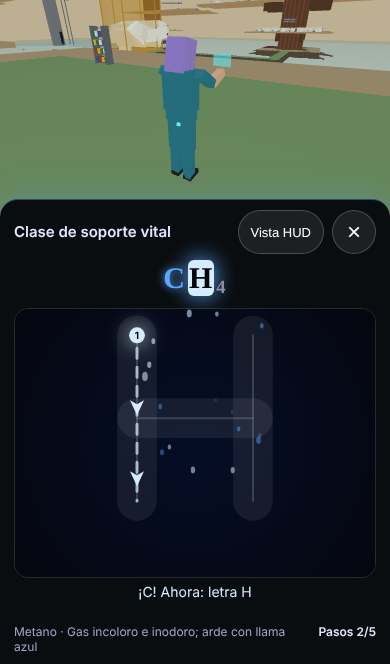
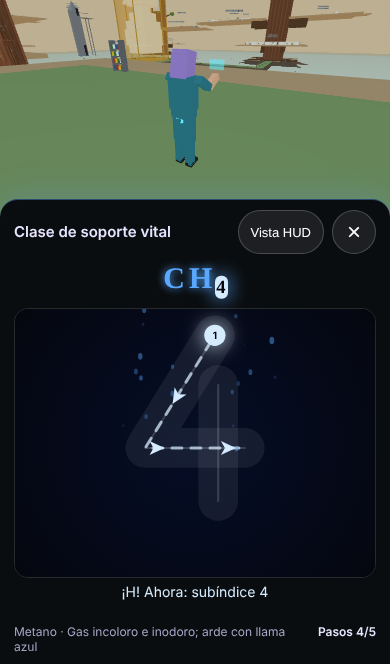
S3: encuadre en panel con aire sobre la cabeza y simulador de Dragon visto de lado
Claude-Session: https://claude.ai/code/session_013f2k3CP9XXanZJK2tg7M68

diff --git a/src/adapters/three/s3-rigs.ts b/src/adapters/three/s3-rigs.ts
@@ -359,10 +359,18 @@ export class S3Rigs {
       at.addScaledVector(up ?? new THREE.Vector3(0, 1, 0), 0.7);
       return true;
     } else if ((this.post === 8 || this.post === 9) && her) {
-      // Over her shoulder to the screens she works at: the simulator's, or the robotics workstation's three.
+      // Over her shoulder to the screens she works at: the simulator's, or the robotics workstation's three. At the
+      // simulator (2026-11-28) from her side, so her head never covers the screen the steps play on.
       const P = this.post === 8 ? this.simShot : this.armShot;
       if (!P) return false;
-      const [backM, upM, sideM, toward] = this.post === 8 ? [0.9, 1.6, 0.45, 0.75] : [0.9, 1.5, 0.35, 0.7];
+      if (this.post === 8) {
+        // From her side, between her and the screen: she and the screen (where each step plays) side by side.
+        const fwd = new THREE.Vector3(P.x - her.x, 0, P.z - her.z).normalize();
+        at.set(her.x, her.y + 1.1, her.z).lerp(P, 0.5);
+        pos.copy(at).add(new THREE.Vector3(-fwd.z, 0.35, fwd.x).multiplyScalar(2.4)).addScaledVector(fwd, -0.4);
+        return true;
+      }
+      const [backM, upM, sideM, toward] = [0.9, 1.5, 0.35, 0.7];
       const back = new THREE.Vector3(her.x - P.x, 0, her.z - P.z).normalize();
       pos.set(her.x, her.y + upM, her.z).addScaledVector(back, backM).add(new THREE.Vector3(-back.z, 0, back.x).multiplyScalar(sideM));
       at.set(her.x, her.y + 1.1, her.z).lerp(P, toward);

diff --git a/src/adapters/three/interior/reto-focus.ts b/src/adapters/three/interior/reto-focus.ts
@@ -15,7 +15,8 @@ import type { StepFrame, StepShow } from "./step-show";
 export interface LensFov {
   /** The scene's own angle, back when the sheet closes (default: the one it had when the lens came on). */
   readonly base?: number;
-  /** Half the vertical angle of the strip above the sheet in portrait (degrees, default 28: her whole at a thing). */
+  /** Half the vertical angle of the strip above the sheet in portrait (degrees, default 33: her whole at a thing with room
+   * over her head; 2026-11-28, with 28 the panel view left her head on the band's top edge at a thing). */
   readonly half?: number;
   /**
    * The free band of the screen in portrait (px from the top: where the sheet leaves room), measured from the sheet
@@ -50,7 +51,7 @@ export function sheetLens(camera: THREE.PerspectiveCamera, on: boolean, fov: Len
     const half = Math.max(20, (b.bottom - b.top) / 2);
     const F = 2 * Math.max(c, h - c);
     camera.aspect = w / F;
-    camera.fov = (2 * Math.atan((Math.tan((fov.half ?? 28) * rad) * (F / 2)) / half)) / rad;
+    camera.fov = (2 * Math.atan((Math.tan((fov.half ?? 33) * rad) * (F / 2)) / half)) / rad;
     camera.setViewOffset(w, F, 0, F / 2 - c, w, h);
   } else if (on) {
     const W = 1.44 * w;

diff --git a/docs/design/retos-trazos.md b/docs/design/retos-trazos.md
@@ -38,6 +38,10 @@ animación, asegúrate que se encuadre la cámara para ver las animaciones».
   servicio, la cámara entra por detrás de su hombro derecho (`focusReto`) y cada paso dibujado se representa con la
   animación de ese paso del santuario 1 (`stepAnimation`, con el reproductor de pasos `StepShow` de las naves). El
   mando de la cámara gira alrededor de ella.
+- **Encuadre en panel**: la franja ve ±33° (antes 28°, `sheetLens` compartido): ella entera con aire sobre la cabeza
+  y el objeto del paso dentro de la franja medida.
+- **Puesto 8 (simulador de Dragon)**: la cámara se pone a su lado, entre ella y la pantalla (`S3Rigs.eye`): se ven ella
+  y la pantalla donde se juega cada paso, sin que su cabeza la tape.
 
 ## Código
 

diff --git a/CHANGELOG.md b/CHANGELOG.md
@@ -10,7 +10,7 @@ Lo nuevo arriba. Una línea por cambio visible o de arquitectura, con su documen
   con nodriza/estación) ([areas.md](docs/design/areas.md)).
 - **Santuario 3, retos dibujados**: botón **Vista HUD / Vista panel** como en el resto de retos; la cámara encuadra la
   escena en la franja que deja libre cada vista; los servicios del campus (la clase del aula y los demás) encuadran a
-  Doménica y representan cada paso ([retos-trazos.md](docs/design/retos-trazos.md); capturas
+  Doménica y representan cada paso; en panel cabe entera, y en el simulador de Dragon su cabeza ya no tapa la pantalla ([retos-trazos.md](docs/design/retos-trazos.md); capturas
   `docs/screenshots/s3-reto-aula-{panel,hud}-movil.png`).
 
 ## 2026-11-26
